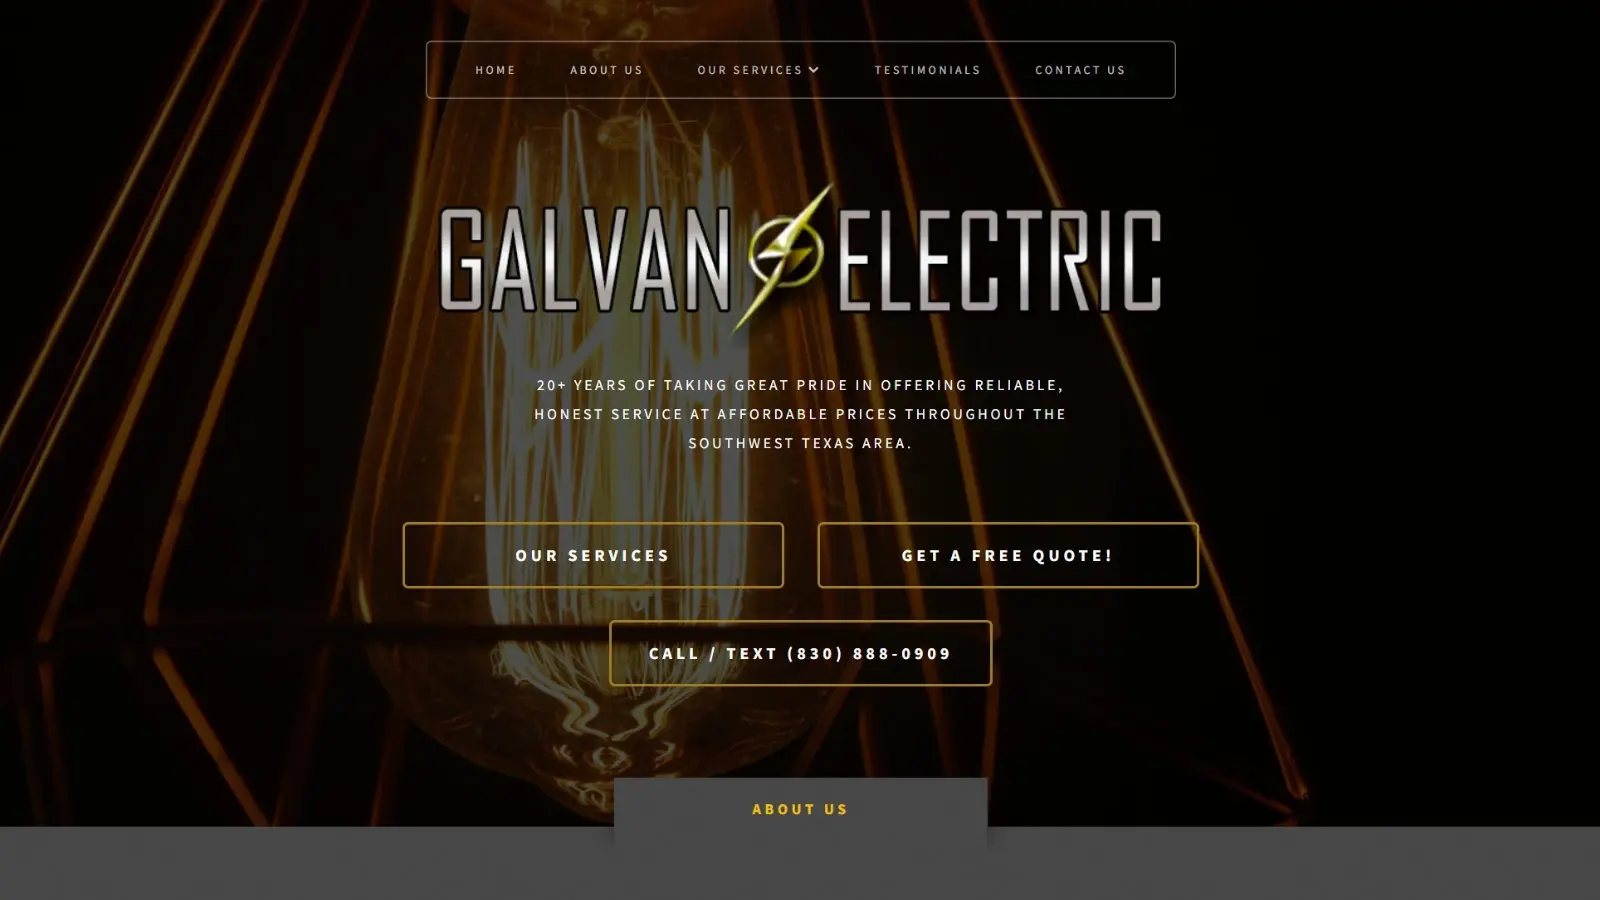
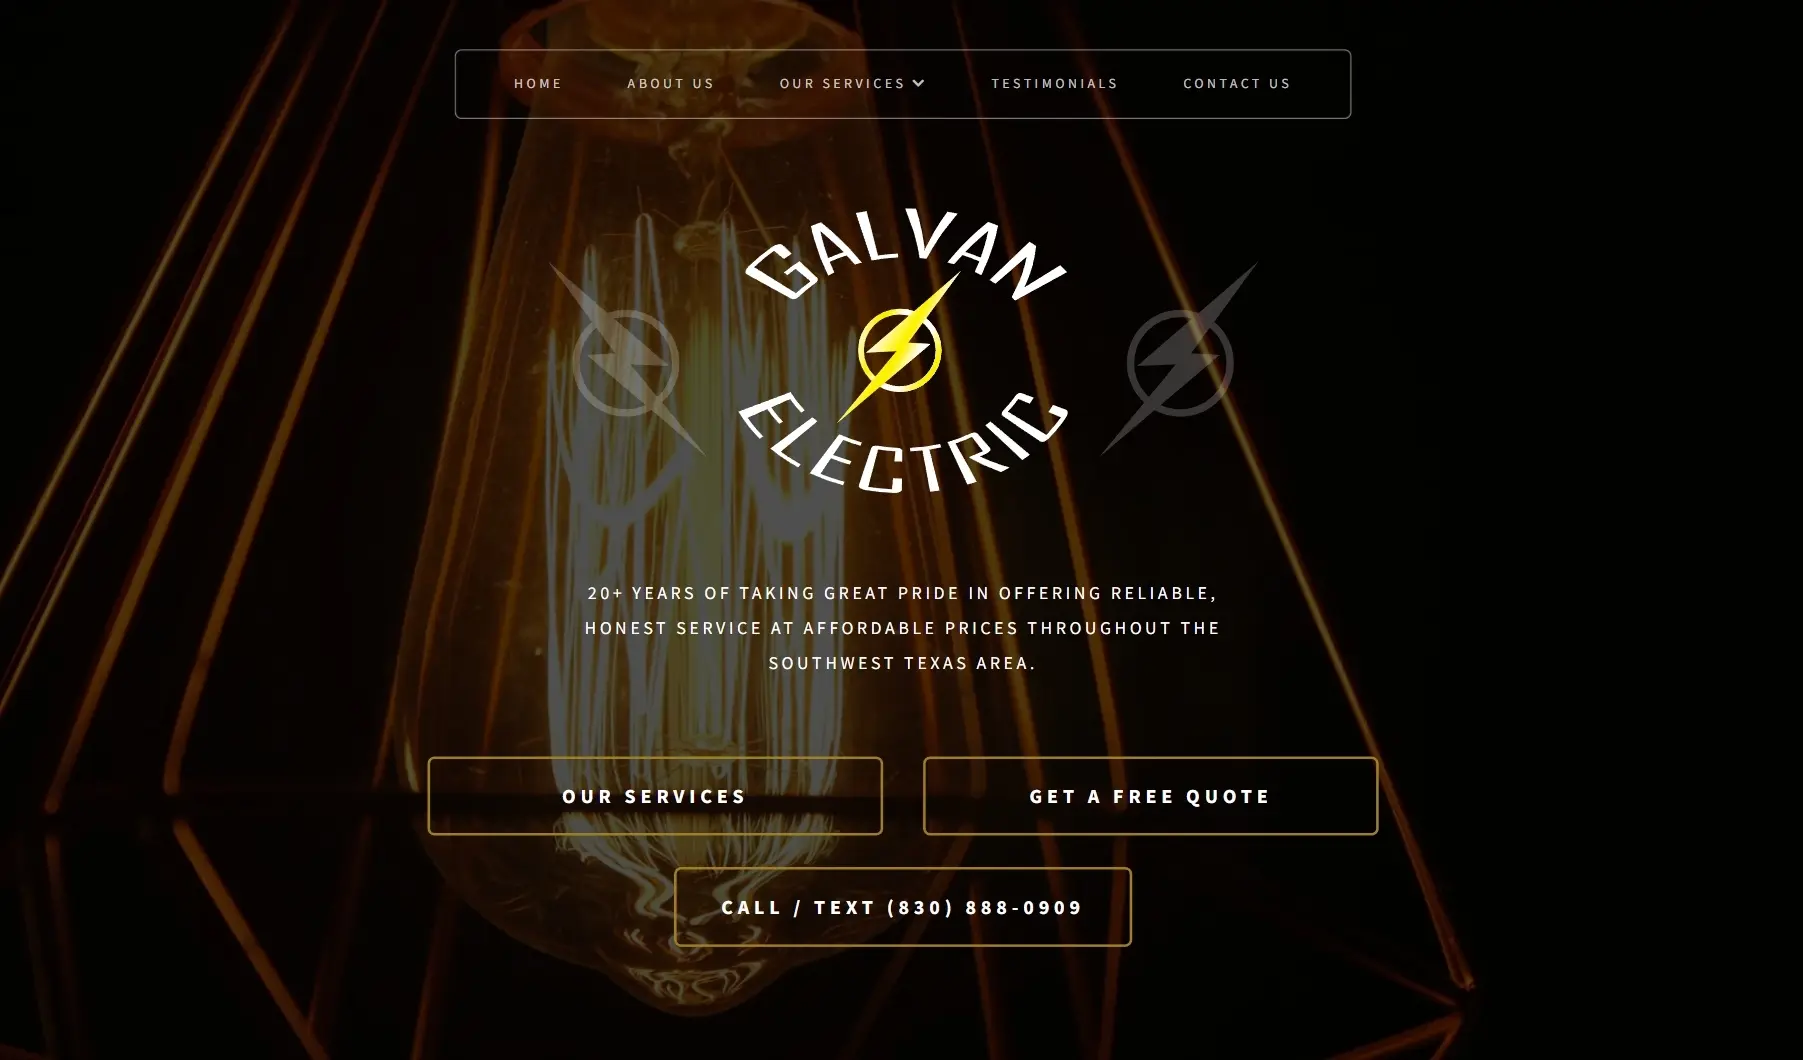
fixed galvan sizing

Changed region(s): [[0.0, 0.0, 1.0, 1.0]]

diff --git a/index.html b/index.html
@@ -107,7 +107,7 @@
 									<section class="features fadeInBot">
 										<article class="fadeInLeft">
 											<a href="https://www.galvanelectric.com/" target="_blank" class="image"><img src="images/galvan-electric.webp" alt="galvan electric services" /></a>
-											<h3 class="major">Revelation Electrical</h3>
+											<h3 class="major">Galvan Electric</h3>
 											<p>Assisted a southwest Texas Electrician of over 20+ years grow his online presence and established a funnel which helped him become a top competitor in the Del Rio, Uvalde and Eagle Pass triangle.</p>
 											<a href="https://www.galvanelectric.com/" target="_blank" class="special">See project</a>
 										</article>
